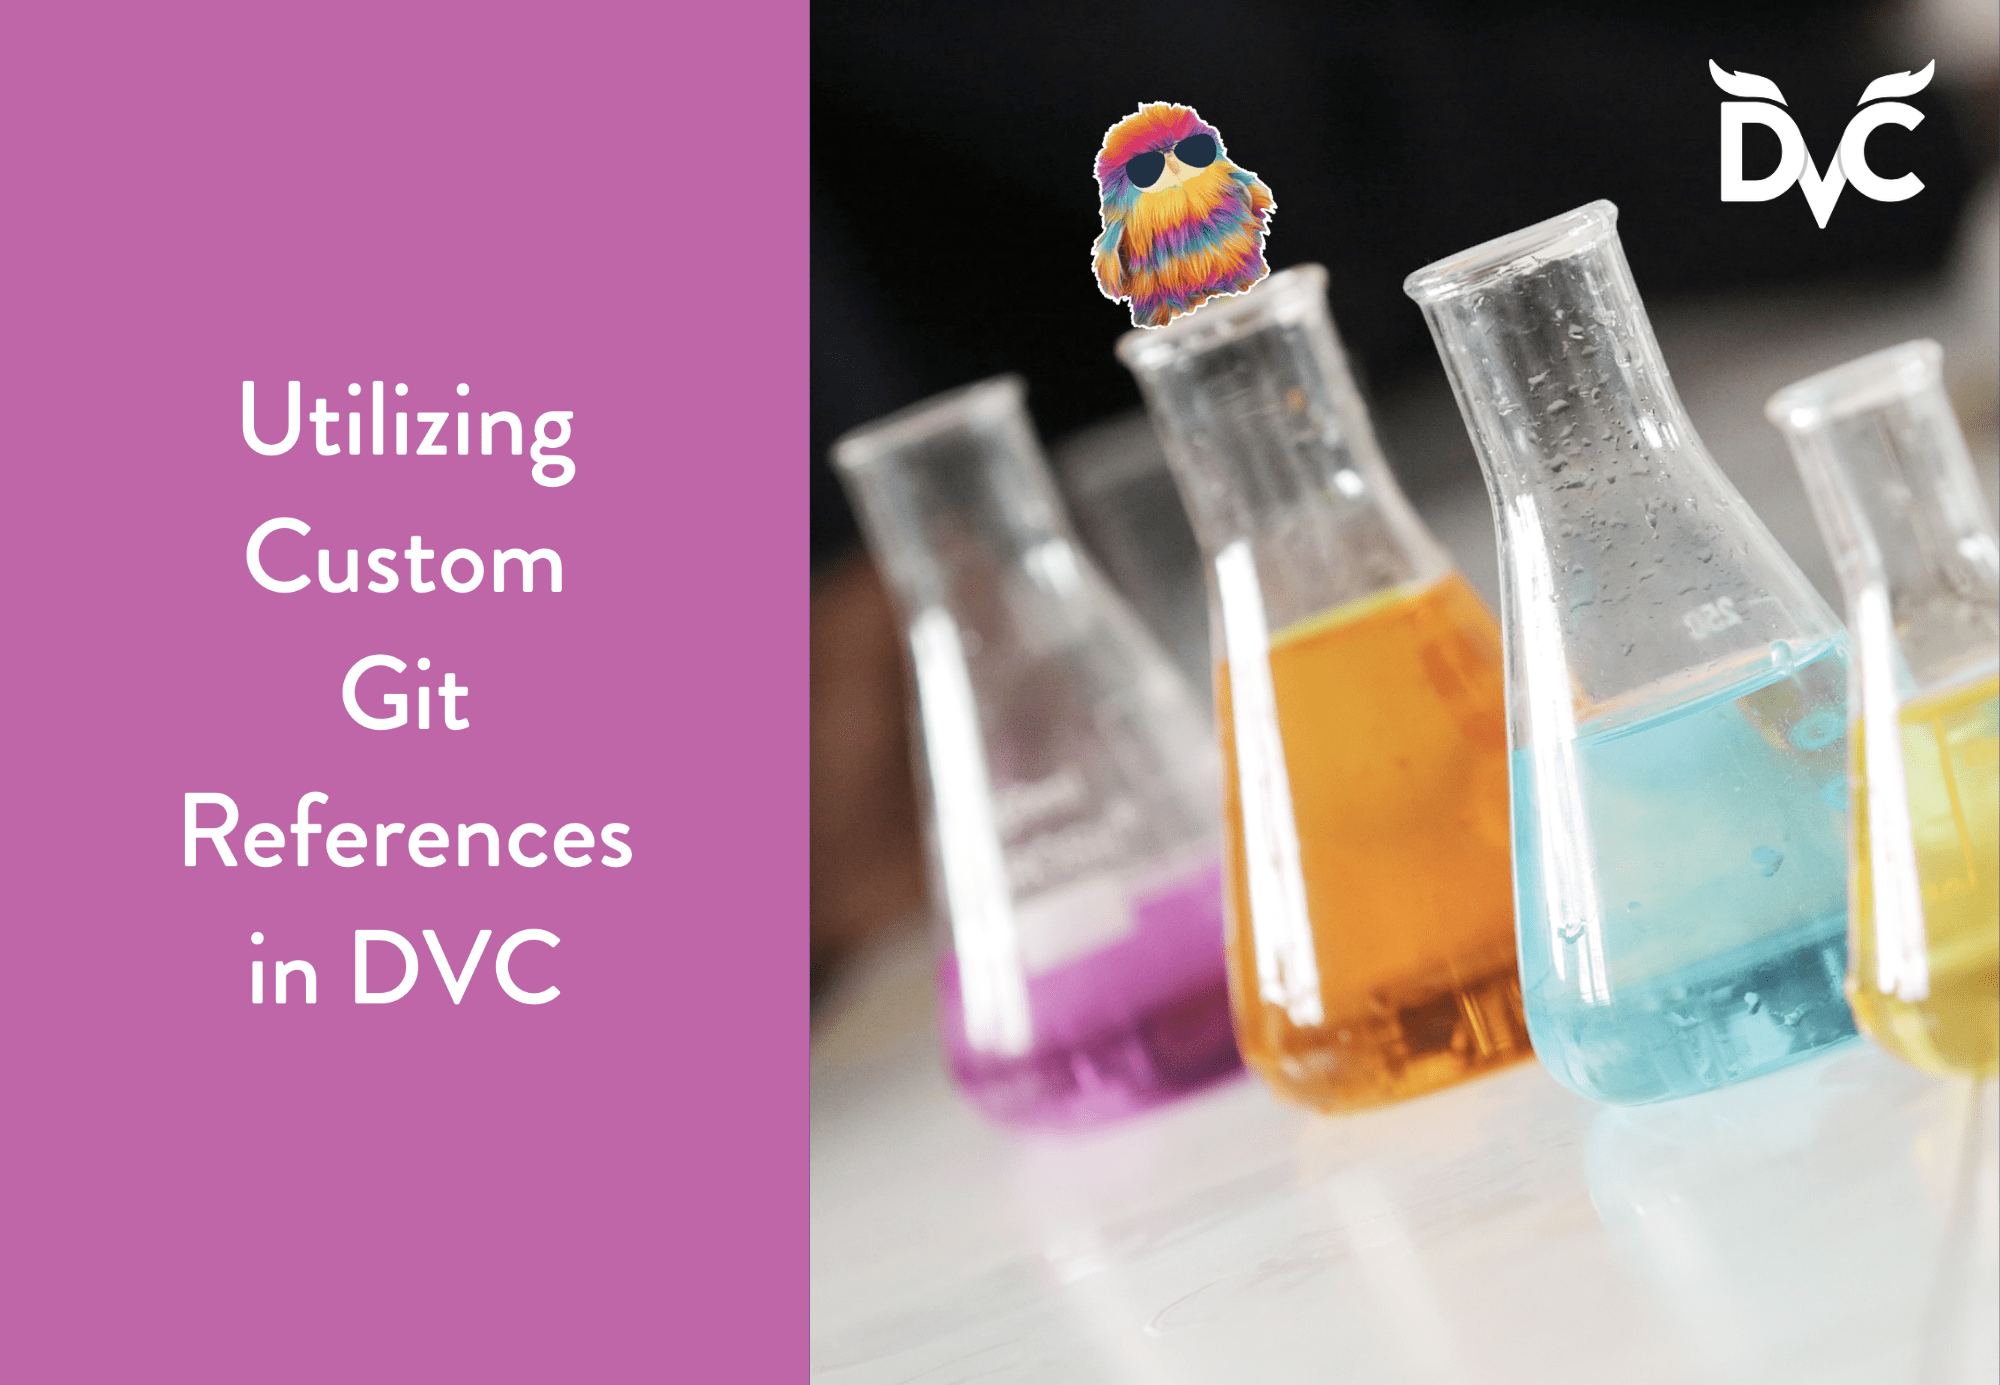
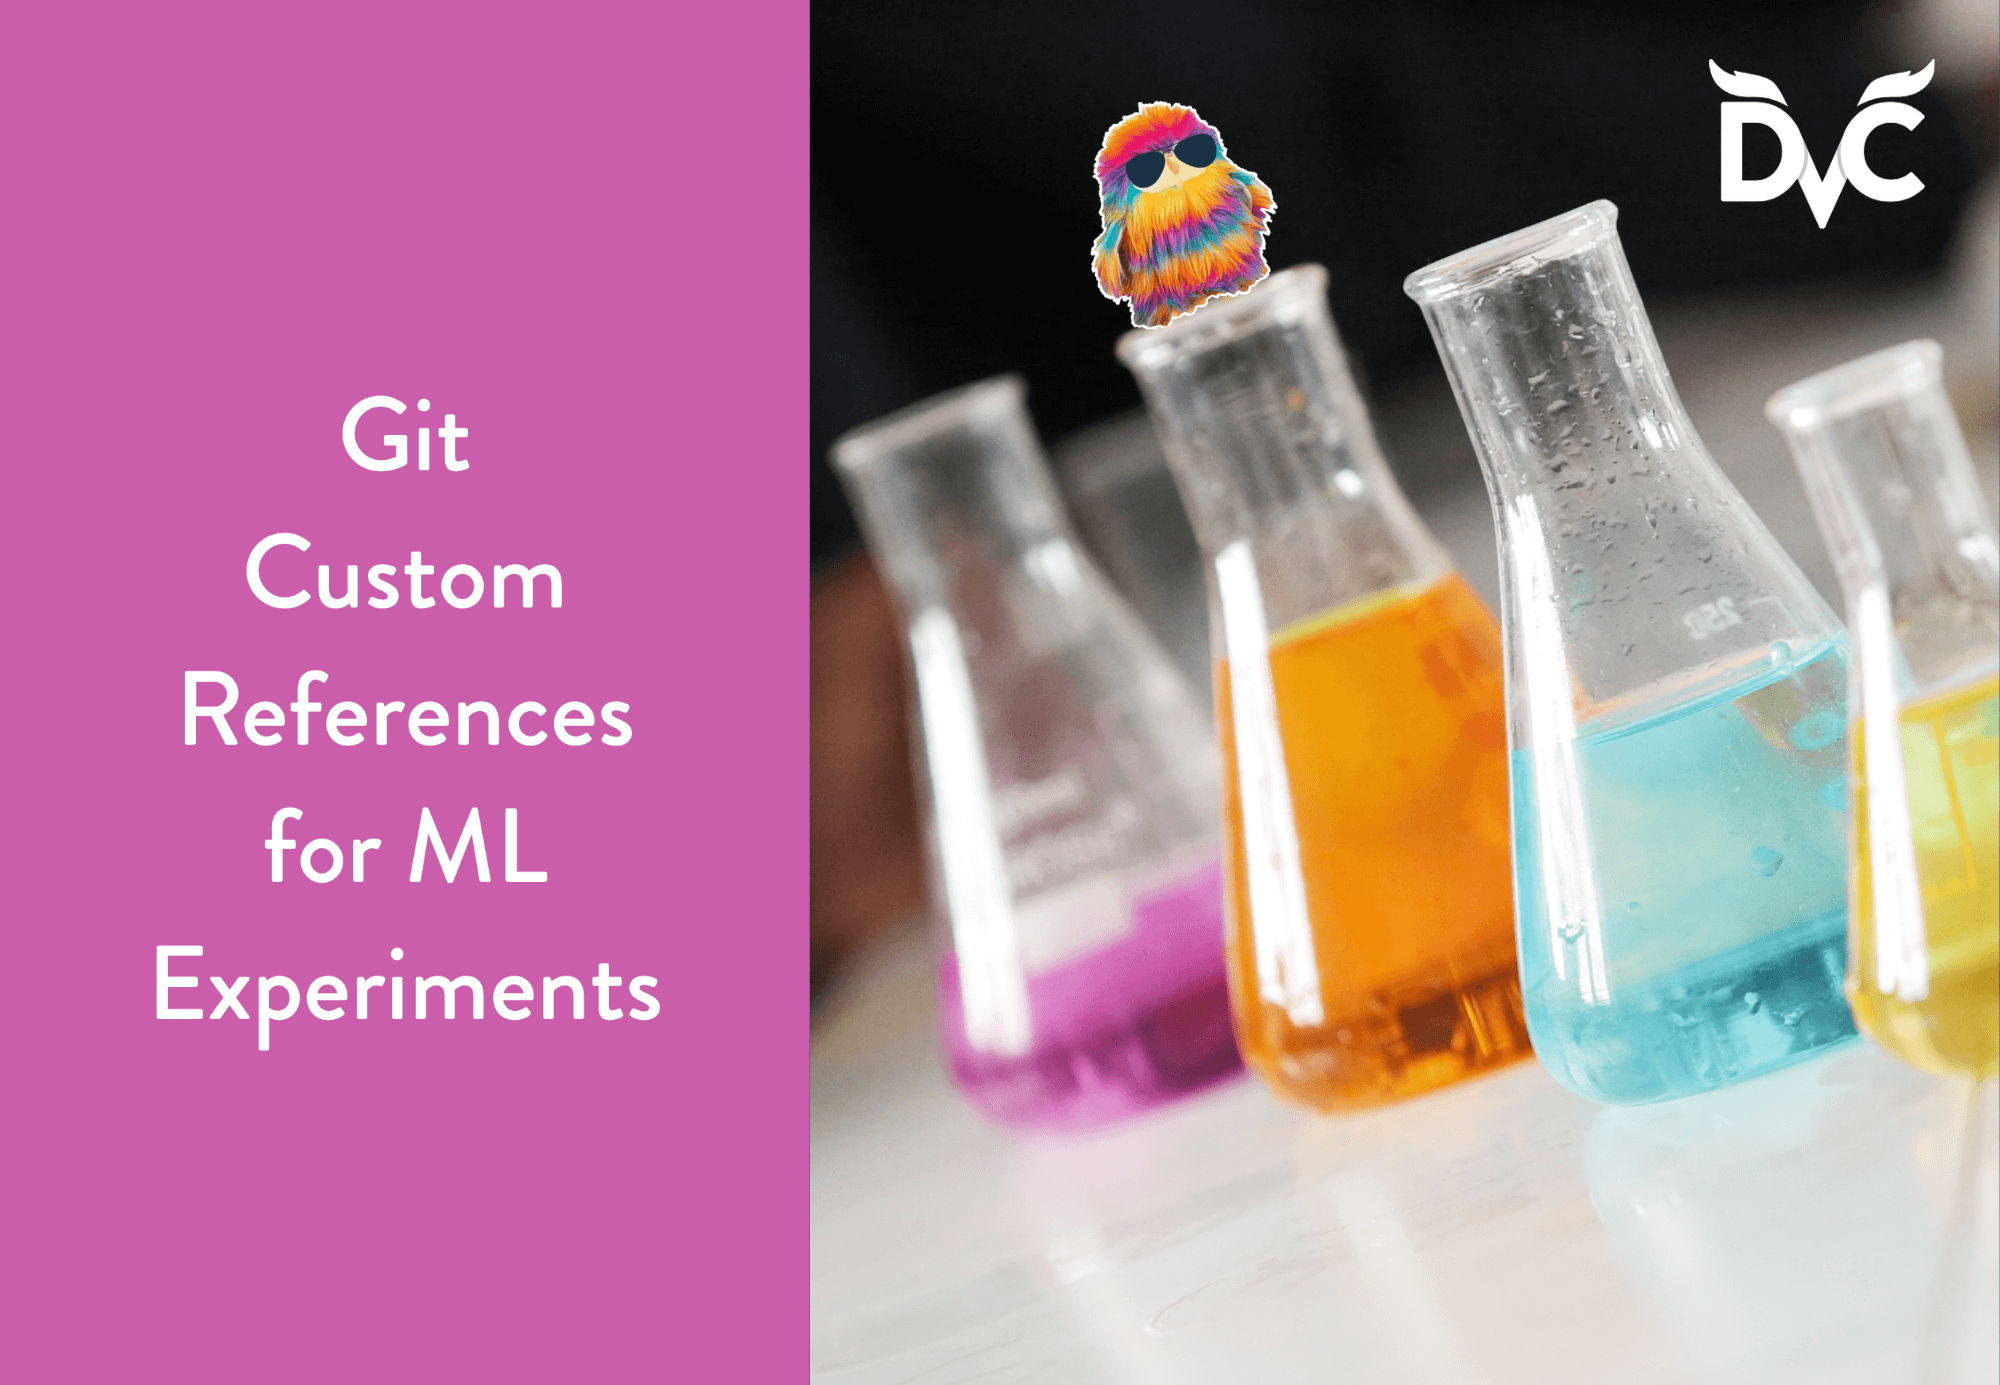
update title and cover image

diff --git a/content/blog/2021-04-19-experiment-refs.md b/content/blog/2021-04-19-experiment-refs.md
@@ -1,5 +1,5 @@
 ---
-title: Utilizing Custom Git References in DVC
+title: Git Custom References for ML Experiments
 date: 2021-04-19
 description: |
   In DVC 2.0, we’ve introduced a new feature set aimed at simplifying the
